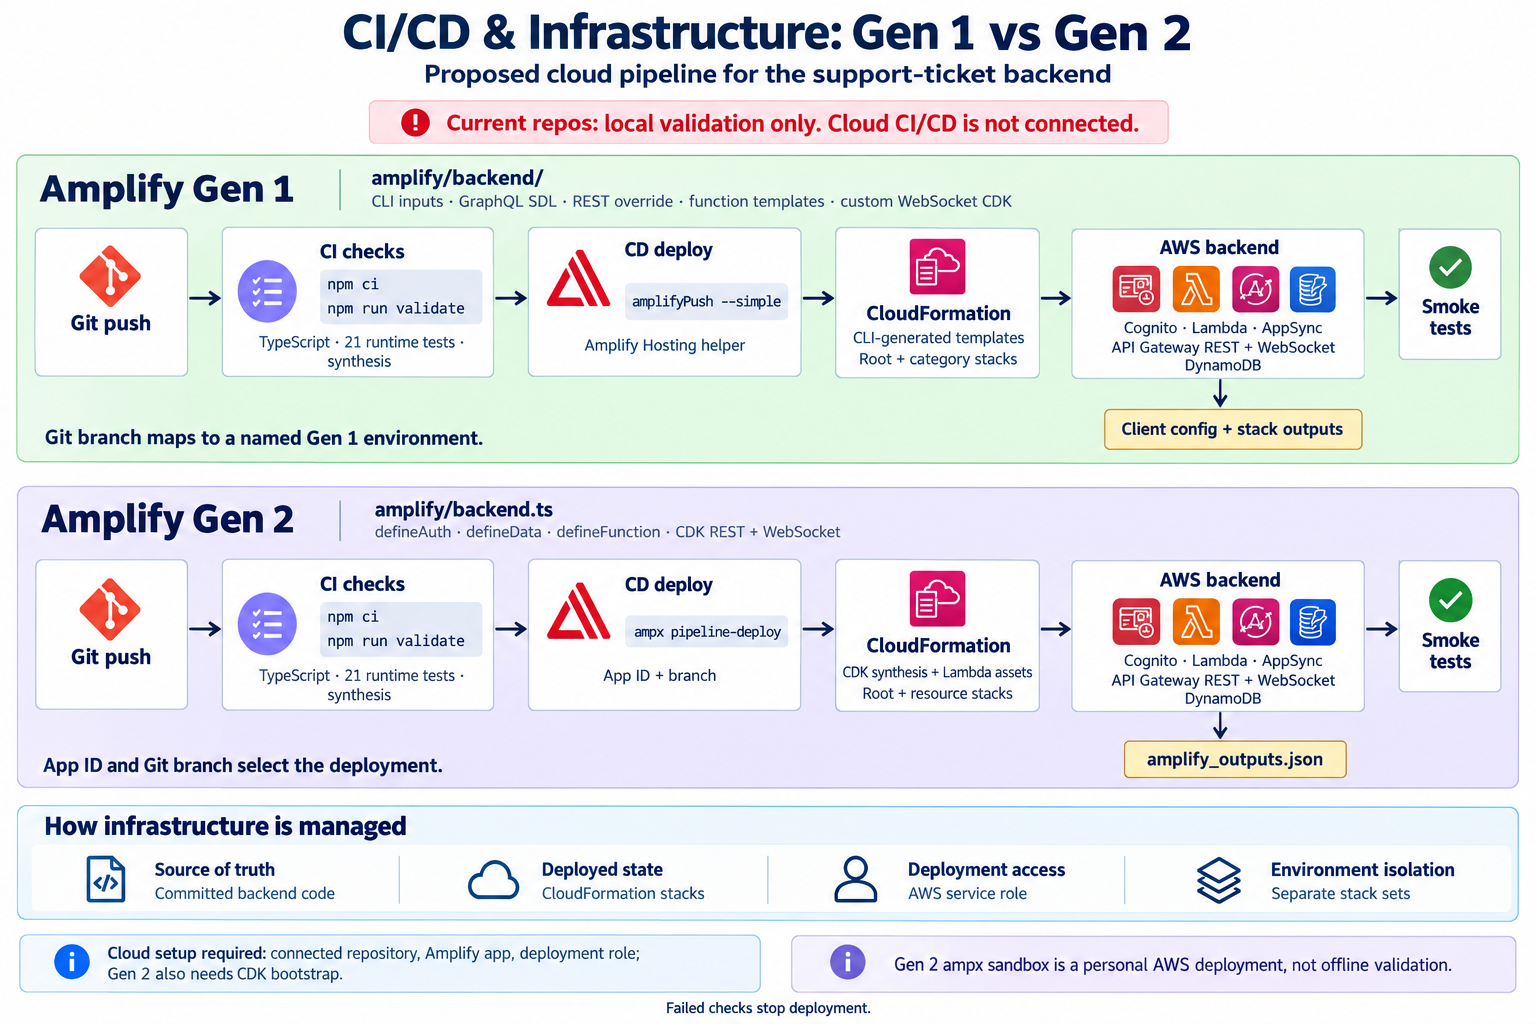
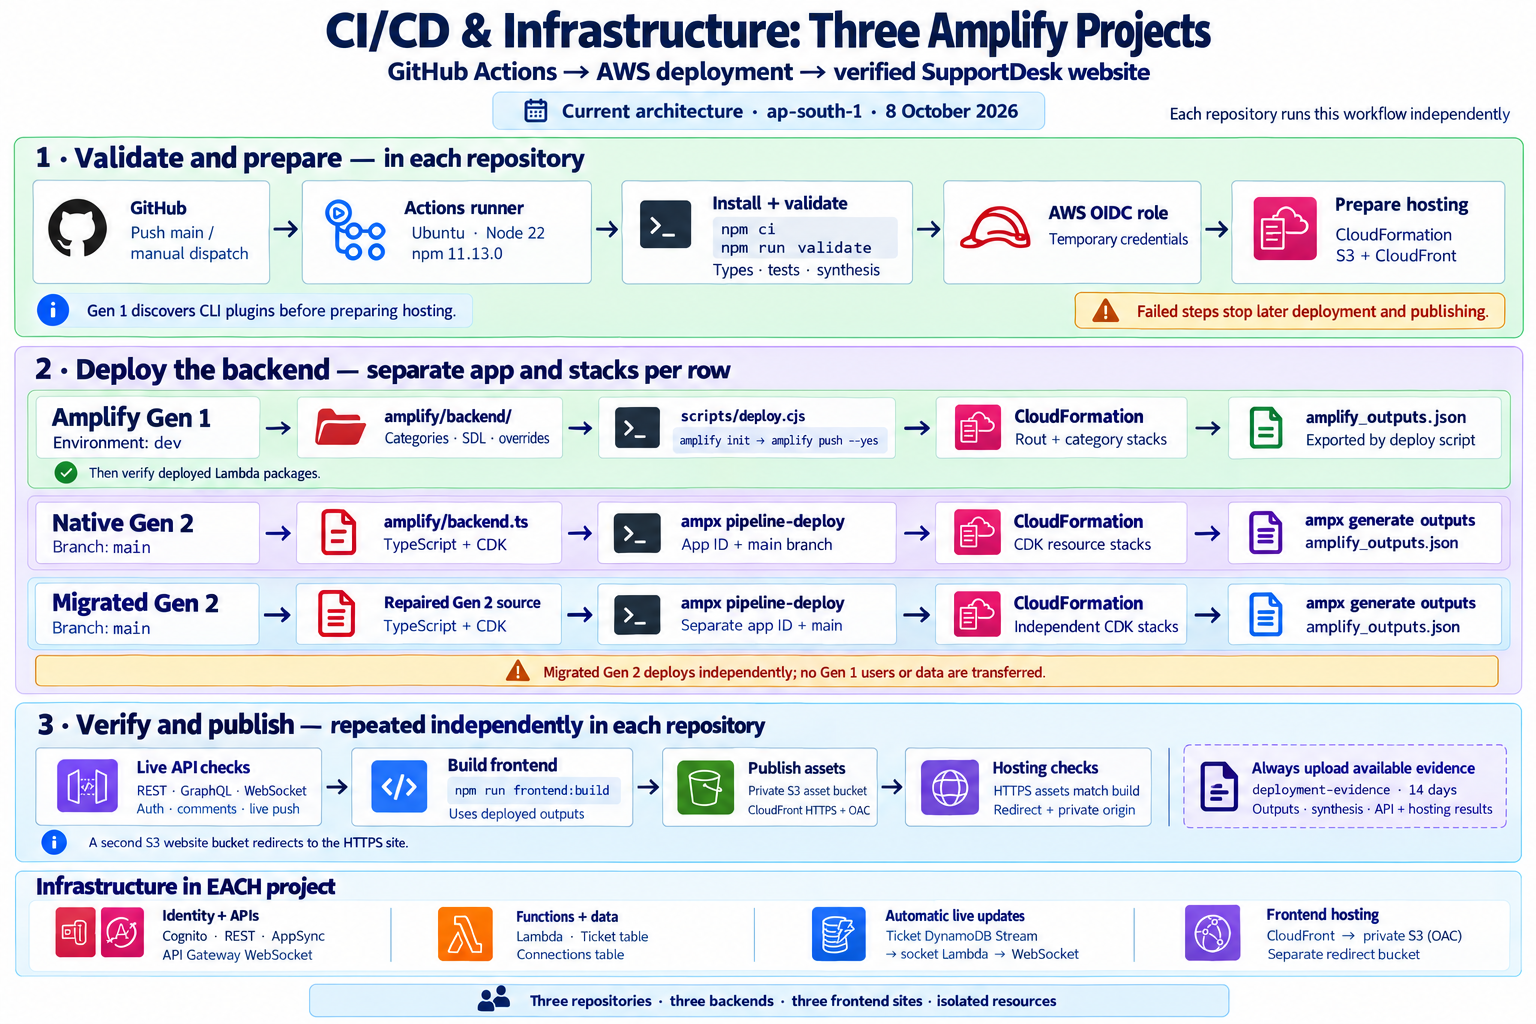
docs: refresh current CI/CD architecture diagram [skip ci]

diff --git a/docs/CI-CD-AND-MIGRATION.md b/docs/CI-CD-AND-MIGRATION.md
@@ -8,20 +8,60 @@
 
 These current images supersede the original lookup illustration for runtime
 behavior. See [diagram details and editable sources](CURRENT-DIAGRAMS.md).
-The earlier CI/CD and migration pictures below preserve the original local
-milestone. Current validation runs 30 runtime/UI tests, synthesis, 17 live API
-check groups, five hosting checks, and 12 two-session browser checks per project.
+The CI/CD diagram below reflects the current GitHub Actions workflows, reviewed
+on 8 October 2026. The migration-tool picture remains a historical local exercise.
 
 
-## Gen 1 and Gen 2 CI/CD
+## Current CI/CD across all three projects
 
-![Gen 1 and Gen 2 CI/CD and infrastructure management](ci-cd-infrastructure-gen1-gen2.png)
+![Current GitHub Actions CI/CD: three independent Amplify backends and S3/CloudFront websites](ci-cd-infrastructure-gen1-gen2.png)
 
-The diagrams were created during the initial local validation phase and preserve that historical status banner. The repositories now include connected GitHub Actions backend deployment pipelines; see [cloud results](CLOUD-DEPLOYMENT.md) for the current implementation. The CI diagram shows the Amplify-managed build option. Gen 1 uses category inputs, SDL, function templates, a REST override and custom CDK. Native Gen 2 uses TypeScript factories and CDK. Both projects already provide `npm run validate`; the original diagram-era scripts performed TypeScript checks, 21 runtime tests and synthesis; the current counts are listed above.
+Updated on **8 October 2026** against each repository's committed workflow,
+deployment scripts, hosting template, GitHub variables, and latest successful
+deployment run. The same comparison diagram is included in all three projects.
+Each repository runs its own pipeline in `ap-south-1`, with its own Amplify app,
+OIDC role, backend stacks, identity/data resources, and frontend hosting stack.
 
-The cloud command examples follow AWS documentation: [Gen 1 Hosting deployment helper](https://docs.aws.amazon.com/amplify/latest/userguide/edit-build-settings.html) and [Gen 2 pipeline deployment](https://docs.amplify.aws/react/deploy-and-host/fullstack-branching/cross-account-deployments/). No CI service, build specification, service role or deployed environment was created by this diagram task.
+1. A push to `main` or manual dispatch starts GitHub Actions on Ubuntu, with
+   Node 22 and npm 11.13.0. `npm ci` installs locked dependencies;
+   `npm run validate` runs type checks, runtime/UI tests, and local synthesis.
+2. GitHub OIDC supplies temporary AWS credentials. Gen 1 configures and scans
+   CLI plugins. `node scripts/hosting.cjs prepare` deploys the CloudFormation
+   hosting stack before the backend deployment.
+3. The backend stage follows the matching row below and exports actual deployed
+   endpoints and Cognito IDs to `amplify_outputs.json`.
+4. Gen 1 checks deployed Lambda packages. All projects run
+   `node scripts/smoke-test.cjs` against REST, GraphQL, and WebSocket APIs,
+   including authorization, comments, and stream-driven live notifications.
+5. `npm run frontend:build` builds with this deployment's outputs, then
+   `node scripts/hosting.cjs publish` uploads the frontend to its private S3
+   asset bucket. CloudFront serves HTTPS using Origin Access Control (OAC).
+   A second S3 website bucket redirects visitors to that HTTPS site.
+6. `node scripts/check-hosting.cjs` verifies hosted asset hashes, the build
+   manifest, the S3 redirect, and denied anonymous access to the S3 origin.
 
-Before using this design, establish actual deployment metadata. Gen 1's ignored offline fixtures must be replaced with real initialized/pulled metadata; they must not become the deployment environment. Use the project's implementation guide for the preparation steps.
+| Project | Backend source and deployment | Output export |
+| --- | --- | --- |
+| Amplify Gen 1 | `amplify/backend/`; `node scripts/deploy.cjs` initializes the existing `dev` environment and runs `amplify push --yes` | Deployment script writes `amplify_outputs.json` |
+| Native Gen 2 | `amplify/backend.ts`; `ampx pipeline-deploy --debug --branch main --app-id "$AMPLIFY_APP_ID"` | `ampx generate outputs --branch main --app-id "$AMPLIFY_APP_ID"` |
+| Migrated Gen 2 | Repaired Gen 2 source; the same Gen 2 commands with its own app ID and independent stacks | The same Gen 2 output command, for its own app |
+
+Failed steps stop later deployment and publishing. The artifact step uses
+`if: always()` to attempt upload of available outputs, synthesis, API results,
+and hosting evidence as `deployment-evidence`, retained for 14 days. Deployments
+are serialized per repository. The two-session browser checks are separate
+verification; they are not a stage in this workflow.
+
+The pipelines deploy Cognito, API Gateway REST/WebSocket, AppSync, Lambda, and
+DynamoDB resources. Each project's Ticket stream invokes its socket Lambda for
+authorized automatic notifications; its Connections table stores sessions.
+Frontend hosting uses the dedicated S3/CloudFront stack. The migrated project
+remains an independent deployment; this pipeline does not transfer Gen 1 users
+or data.
+
+[Workflow](../.github/workflows/deploy.yml) · [Deployment details](CLOUD-DEPLOYMENT.md) ·
+[Editable diagram](ci-cd-infrastructure-gen1-gen2.mmd) ·
+[Generation prompt, source hashes, and verified runs](ci-cd-diagram-generation.json)
 
 ## Migration tool and destination project
 
@@ -31,4 +71,4 @@ The blue band explains code generation and manual repairs. The green band shows 
 
 The dashed band depicts future stateful migration work described in the [official migration guide](https://docs.amplify.aws/react/start/migrate-to-gen2/migrate-existing-app/). It has not been executed. The local repaired reference uses fresh-resource wiring and omits the synthetic table mapping; it cannot demonstrate preservation of deployed users or data.
 
-Both images were generated with built-in imagegen. [Complete generation prompts and saved locations](pipeline-migration-diagram-prompts.md) are retained. See the migration repository's implementation guide and report for the exact findings and repair diff.
+Both images were generated with built-in imagegen. [Current and historical generation records](pipeline-migration-diagram-prompts.md) are retained. See the migration repository's implementation guide and report for the exact findings and repair diff.

diff --git a/docs/CLOUD-DEPLOYMENT.md b/docs/CLOUD-DEPLOYMENT.md
@@ -15,7 +15,7 @@ The repository is private on GitHub. `deployment.json` identifies its Amplify ap
 
 The pipeline pins action revisions, Node 22 and npm 11.13.0, installs locked dependencies, runs TypeScript/runtime checks and local synthesis, obtains temporary AWS credentials, prepares the S3/CloudFront hosting stack, deploys the backend, exports actual outputs, runs `scripts/smoke-test.cjs` against AWS, then builds and publishes the frontend. `scripts/check-hosting.cjs` checks hosted asset hashes, the S3 redirect, and denied anonymous access to the asset bucket. Small JSON evidence and outputs are uploaded for 14 days. No AWS access key or secret is stored in GitHub. Gen 1 bridges its SDK v2 post-push hook through a dedicated profile containing the job's short-lived OIDC session in mode-0600 temporary files; `finally` removes both files. The user's default profile is untouched. Trust is restricted to this exact repository's immutable owner/repository IDs and its `main` branch.
 
-The CI provider is GitHub Actions. The earlier infrastructure diagram shows the Amplify-managed build option; this deployment uses the same Gen 1 CLI or Gen 2 pipeline-deploy backend stages in an external pipeline. The SupportDesk frontend is now built in the same workflow and published to a separate private S3 bucket behind CloudFront. A second empty S3 website bucket redirects visitors to that HTTPS site. This hosting stack is defined in `frontend/hosting-template.json`; this project does not use the Amplify Hosting build service.
+The CI provider is GitHub Actions. The [current CI/CD diagram](ci-cd-infrastructure-gen1-gen2.png) shows all three independent pipelines, including their Gen 1 CLI or Gen 2 pipeline-deploy backend stages, frontend publishing, and verification. The SupportDesk frontend is now built in the same workflow and published to a separate private S3 bucket behind CloudFront. A second empty S3 website bucket redirects visitors to that HTTPS site. This hosting stack is defined in `frontend/hosting-template.json`; this project does not use the Amplify Hosting build service.
 
 The smoke check creates two temporary Cognito owners and an Agents member without sending invitations, authenticates using SRP, verifies REST owner CRUD and Cognito rejection, checks the custom Agents authorizer, verifies generated AppSync and custom Lambda resolvers against shared DynamoDB data, and tests authenticated WebSocket responses, denied ownership and malformed messages. The current smoke suite also checks protected REST/GraphQL comments, verified authors, stream-driven creation/status/comment pushes, Agents delivery, and cross-owner notification isolation. Finally it closes sockets and removes tickets and users. Unit checks additionally cover JWT issuer/audience/signature/expiry and expired WebSocket identity handling; token expiry over a real hour is not part of the live check.
 

diff --git a/docs/pipeline-migration-diagram-prompts.md b/docs/pipeline-migration-diagram-prompts.md
@@ -1,10 +1,26 @@
-> Historical image prompts from the initial local phase. Cloud deployment and API verification were subsequently authorized; current results are in CLOUD-DEPLOYMENT.md. The original images have not been regenerated.
-
 # CI/CD and migration diagram generation
 
 Mode: built-in image_gen, using the imagegen skill.
 
-## CI/CD and infrastructure prompt
+## Current CI/CD diagram — 8 October 2026
+
+The CI/CD PNG has been replaced with the current GitHub Actions architecture for
+Gen 1, native Gen 2, and independently deployed migrated Gen 2. It now includes
+OIDC, actual deployment commands, live API tests, S3/CloudFront frontend hosting,
+hosting verification, and the always-run evidence upload.
+
+The exact replacement prompt, PNG hash, inspected source hashes, and successful
+workflow runs are in [ci-cd-diagram-generation.json](ci-cd-diagram-generation.json).
+The matching editable flow is [ci-cd-infrastructure-gen1-gen2.mmd](ci-cd-infrastructure-gen1-gen2.mmd).
+The replacement uses the built-in imagegen tool with the old bitmap as the edit
+target; it is saved under the same filename in all three repositories and the
+enclosing workspace. See [current pipeline details](CI-CD-AND-MIGRATION.md).
+
+The prompts below are retained only as historical generation records. The
+migration-tool PNG still illustrates the original local exercise; its later
+independent AWS deployment is described in the project deployment guide.
+
+## Historical CI/CD prompt — superseded
 
 Use case: infographic-diagram
 Asset type: documentation architecture diagram for these AWS Amplify support-ticket repositories.
@@ -55,7 +71,7 @@ A separate bottom note: "Gen 2 ampx sandbox is a personal AWS deployment, not of
 
 Do not draw a frontend, CDN or frontend build; these repositories are backend-only. Do not depict CI/CD as already deployed. Do not invent an amplify.yml or GitHub Actions workflow present in the repo. This is an informative reference design using the actual local check commands and documented cloud deployment mechanisms. Keep spelling exact, avoid crossed arrows, and show clearly that backend definitions become CloudFormation-managed services.
 
-## Migration workflow prompt
+## Historical migration workflow prompt
 
 Use case: infographic-diagram
 Asset type: technical documentation diagram showing how the official AWS Amplify Gen 1 to Gen 2 tool produces destination code and how this repository exercised it.

diff --git a/docs/CURRENT-DIAGRAMS.md b/docs/CURRENT-DIAGRAMS.md
@@ -30,6 +30,17 @@ Pause/Resume reconnects and resyncs current state. These are in-page updates in
 the signed-in website, with no manual WebSocket lookup required. The legacy
 `getTicket` route remains for compatibility and API tests.
 
+## Current CI/CD
+
+![Current CI/CD for Gen 1, native Gen 2, and migrated Gen 2](ci-cd-infrastructure-gen1-gen2.png)
+
+Updated on 8 October 2026 from all three GitHub Actions workflows and successful
+deployment runs. It covers validation, OIDC credentials, separate backend
+deployments, live API checks, frontend publishing to S3/CloudFront, hosting checks,
+and evidence upload. [Pipeline details](CI-CD-AND-MIGRATION.md),
+[editable source](ci-cd-infrastructure-gen1-gen2.mmd), and
+[generation and verification record](ci-cd-diagram-generation.json).
+
 ## Sources and verification
 
 - [Editable architecture source](support-ticket-live-updates.mmd)
@@ -41,5 +52,5 @@ the signed-in website, with no manual WebSocket lookup required. The legacy
 The PNGs were created with the built-in imagegen tool and visually inspected
 against `src/notifications.cjs`, `src/websocket.cjs`, and the workflow handlers.
 The Mermaid files describe the same flow and provide an editable reference.
-The original lookup bitmap and earlier CI/migration illustrations remain
-historical artifacts; they do not describe the current notification UI.
+The original lookup bitmap and migration-tool illustration remain historical
+artifacts. The CI/CD illustration now documents the current deployed pipeline.
